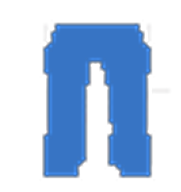
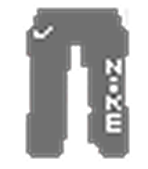
chore: 옷에 따른 면접 대사 local storage에 저장

diff --git a/js/dressup.js b/js/dressup.js
@@ -15,6 +15,40 @@ const STORAGE_KEYS = {
   SHOES: "shoes",
 };
 
+// 로컬 스토리지에서 면접 대사 값 가져오기
+const getInterviewValue = () => {
+  const hair = localStorage.getItem("hair");
+  const shirt = localStorage.getItem("shirt");
+  const pants = localStorage.getItem("pants");
+  const shoes = localStorage.getItem("shoes");
+
+  // 카테고리별 그룹화
+  const hairGroup1 = ["hair2", "hair3"]; // 장발/단발
+  const hairGroup2 = ["hair0", "hair1"]; // 탈모/대머리
+  const shirtGroup1 = ["shirt3", "shirt4"]; // 목폴라/와이셔츠
+  const shirtGroup2 = ["shirt1", "shirt2"]; // 반팔/후드티
+  const pantsGroup1 = ["pants3", "pants4"]; // 청바지/슬랙스
+  const pantsGroup2 = ["pants1", "pants2"]; // 반바지/추리닝
+  const shoesGroup1 = ["shoes3-1", "shoes4-1"]; // 운동화/구두
+  const shoesGroup2 = ["shoes1-1", "shoes2-1"]; // 양말/슬리퍼
+
+  // 이스터에그 체크 (옷을 안 입거나 양말만 신은 경우)
+  if (shirt === "shirt0" || pants === "pants0" || shoes === "shoes1-1") {
+    return "fail"; // 대중교통에서 쫓겨남
+  } else {
+    let value = 0;
+    if (hairGroup1.includes(hair)) value += 0;
+    if (hairGroup2.includes(hair)) value += 8;
+    if (shirtGroup1.includes(shirt)) value += 0;
+    if (shirtGroup2.includes(shirt)) value += 4;
+    if (pantsGroup1.includes(pants)) value += 0;
+    if (pantsGroup2.includes(pants)) value += 2;
+    if (shoesGroup1.includes(shoes)) value += 0;
+    if (shoesGroup2.includes(shoes)) value += 1;
+    return value + 1;
+  }
+};
+
 // DOM 요소
 const elements = {
   clothesItems: document.querySelectorAll(".clothes"),
@@ -116,10 +150,13 @@ class EventHandlers {
       "click",
       () => (elements.modal.style.display = "flex")
     );
-    elements.modalConfirm.addEventListener(
-      "click",
-      this.handleComplete.bind(this)
-    );
+
+    // 모달 확인 버튼 이벤트 추가
+    elements.modalConfirm.addEventListener("click", () => {
+      localStorage.setItem("interview-dialog", getInterviewValue());
+      this.handleComplete();
+    });
+
     elements.modalCancel.addEventListener(
       "click",
       () => (elements.modal.style.display = "none")
